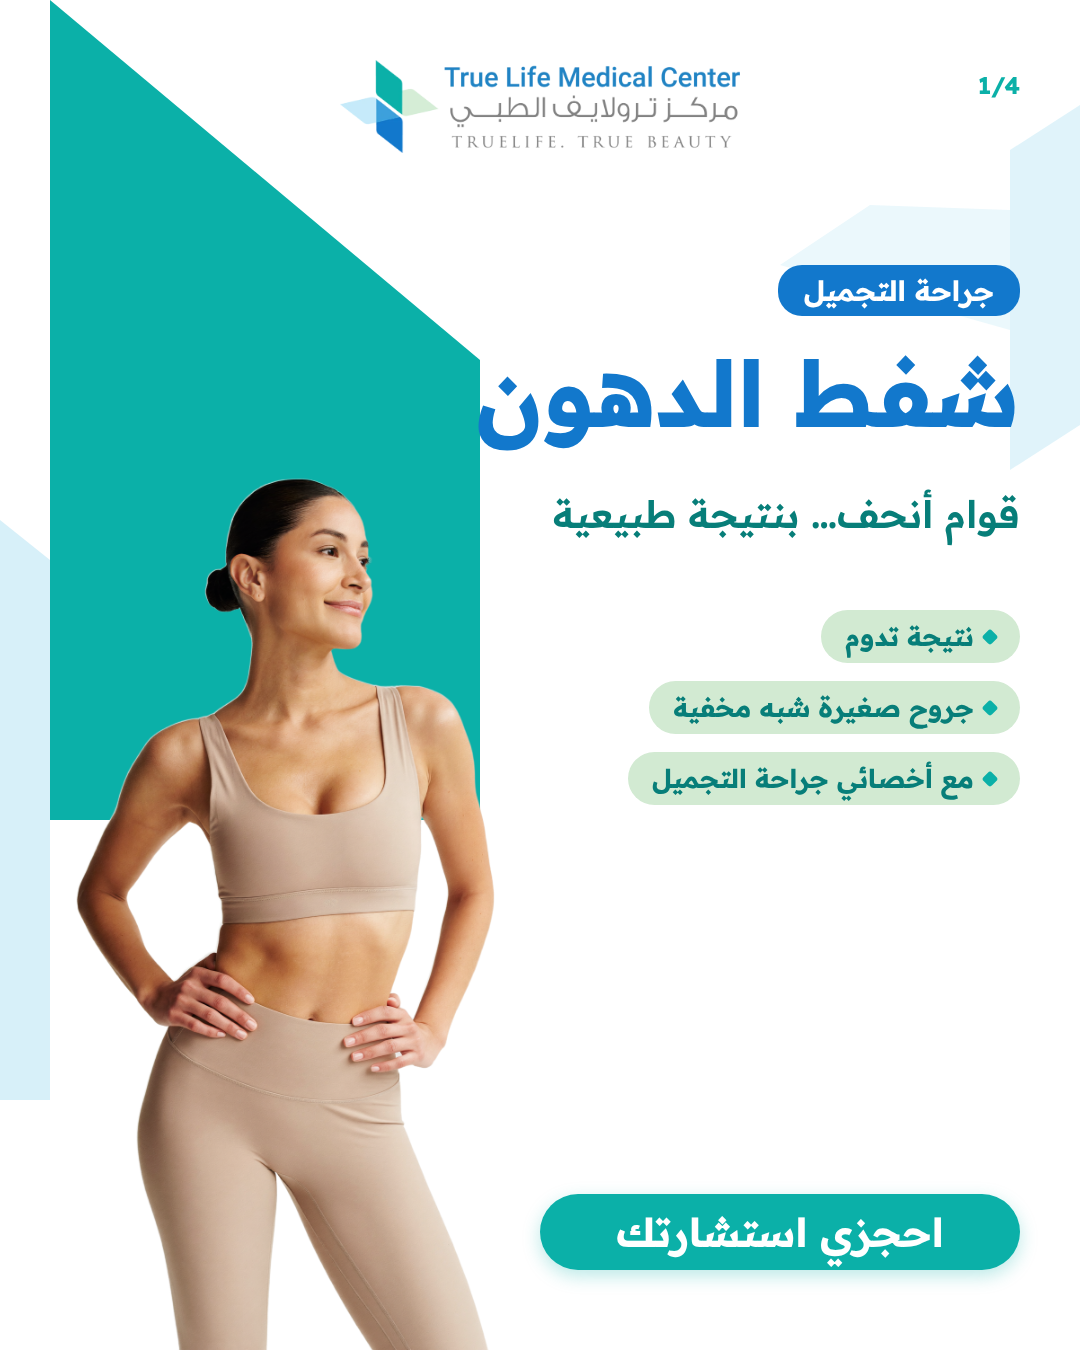
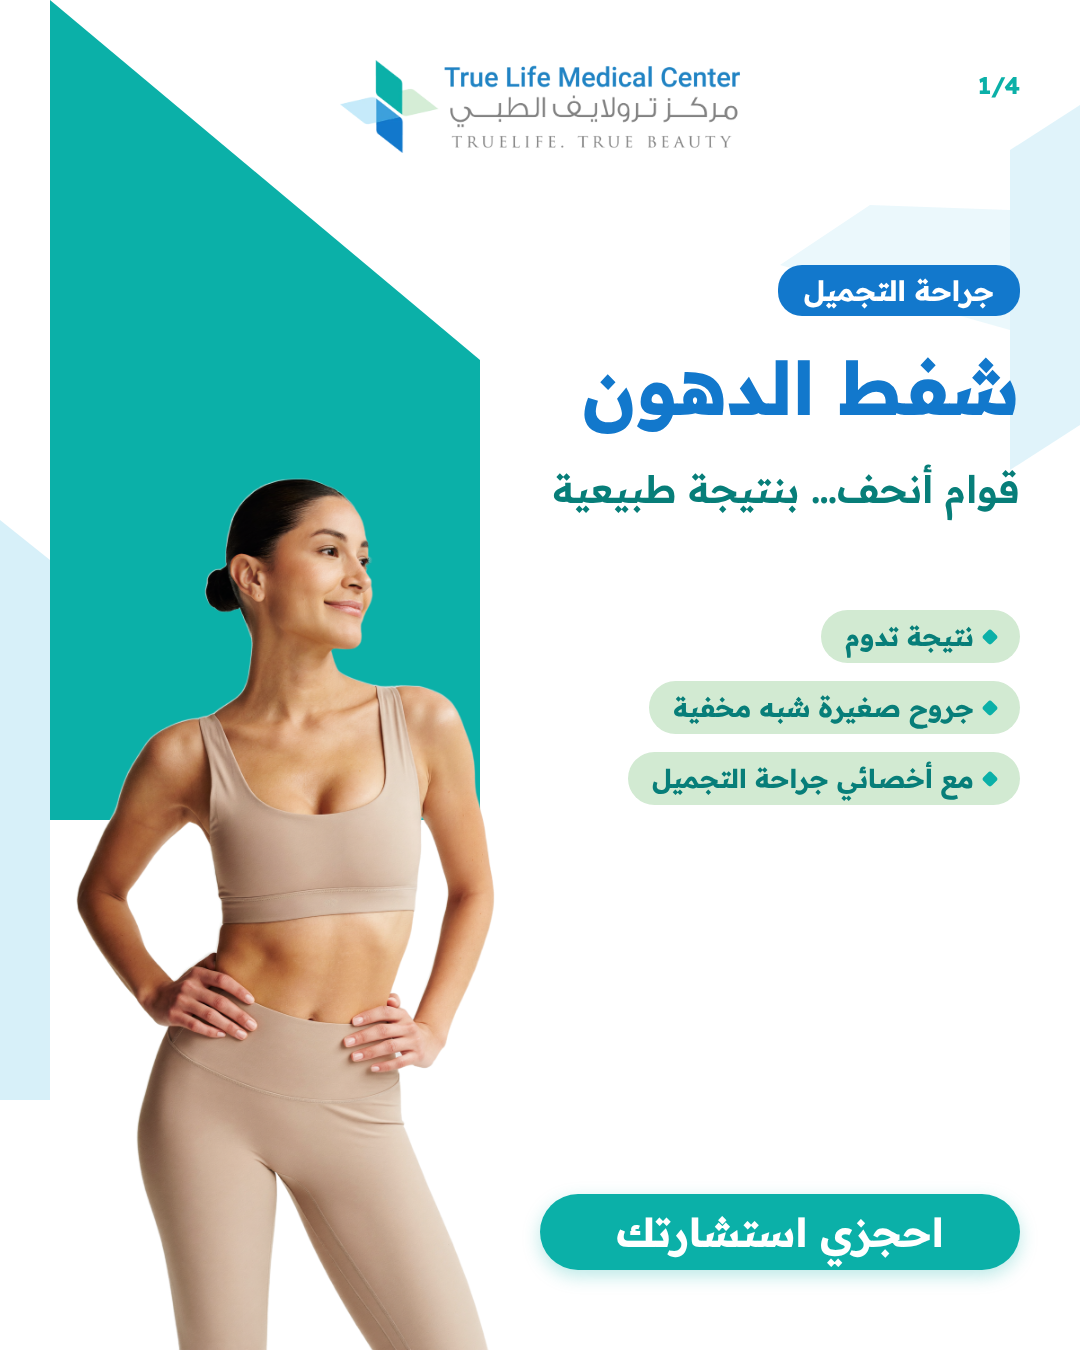
Liposuction carousel: smaller cover title, better line spacing on slides 3-4
Claude-Session: https://claude.ai/code/session_01EZd6nkjhojbY1JhgPgko2h

Changed region(s): [[0.4278, 0.2489, 0.9472, 0.4044]]

diff --git a/designs/plastic/liposuction/carousel.html b/designs/plastic/liposuction/carousel.html
@@ -25,8 +25,8 @@
   /* slide 1 */
   .s1 .model{position:absolute;left:-40px;bottom:0;width:690px}
   .s1 .tag{position:absolute;top:265px;right:60px;background:var(--blue);color:#fff;font-weight:700;font-size:28px;padding:8px 26px;border-radius:24px}
-  .s1 .ttl{position:absolute;top:340px;right:60px;font-size:92px;width:520px;text-align:right;white-space:nowrap}
-  .s1 .sub{position:absolute;top:490px;right:60px;font-size:38px;width:520px;text-align:right}
+  .s1 .ttl{position:absolute;top:345px;right:60px;font-size:74px;width:520px;text-align:right;white-space:nowrap}
+  .s1 .sub{position:absolute;top:465px;right:60px;font-size:38px;width:520px;text-align:right}
   .s1 .pills{position:absolute;top:610px;right:60px;display:flex;flex-direction:column;align-items:flex-start;gap:18px;width:500px}
   .s1 .cta{position:absolute;right:60px;bottom:80px;width:480px}
   .s1 .cta .chip{font-size:40px;direction:rtl}
@@ -47,26 +47,26 @@
 
   /* slide 3 */
   .s3 .ttl{position:absolute;top:200px;width:100%;text-align:center;font-size:84px}
-  .s3 .sub{position:absolute;top:315px;width:100%;text-align:center;font-size:32px}
-  .tips{position:absolute;top:410px;left:70px;right:70px;display:flex;flex-direction:column;gap:20px}
+  .s3 .sub{position:absolute;top:325px;width:100%;text-align:center;font-size:32px}
+  .tips{position:absolute;top:420px;left:70px;right:70px;display:flex;flex-direction:column;gap:22px}
   .tip{display:flex;align-items:center;gap:26px;background:var(--cloud);border-radius:24px;padding:22px 30px;border-right:10px solid var(--teal)}
   .tip .n{flex:none;width:64px;height:64px;border-radius:18px;background:var(--blue);color:#fff;font-size:34px;font-weight:700;display:flex;align-items:center;justify-content:center}
-  .tip p{font-size:34px;font-weight:700;color:var(--charcoal);line-height:1.35}
-  .tip p small{display:block;font-size:24px;font-weight:500;color:#5b6570}
+  .tip p{font-size:33px;font-weight:600;color:var(--charcoal);line-height:1.5}
+  .tip p small{display:block;font-size:24px;font-weight:400;color:#5b6570;line-height:1.5;margin-top:6px}
 
   /* slide 4 */
   .s4{background:var(--navy)}
   .s4 .logo{width:440px;top:90px}
-  .s4 .ttl{position:absolute;top:300px;width:100%;text-align:center;color:#fff;font-size:100px}
-  .s4 .sub{position:absolute;top:440px;width:100%;text-align:center;color:var(--ice);font-size:36px;font-weight:500}
+  .s4 .ttl{position:absolute;top:280px;width:100%;text-align:center;color:#fff;font-size:100px}
+  .s4 .sub{position:absolute;top:430px;width:100%;text-align:center;color:var(--ice);font-size:34px;font-weight:400;line-height:1.5}
   .doc{position:absolute;top:540px;left:90px;right:90px;height:470px;background:#fff;border-radius:36px;overflow:hidden}
   .doc img{position:absolute;left:10px;bottom:0;height:450px;width:auto}
   .doc .txt{position:absolute;right:40px;top:0;bottom:0;width:440px;display:flex;flex-direction:column;justify-content:center;text-align:right}
-  .doc .badge{align-self:flex-start;background:var(--mint);color:var(--deepteal);font-weight:700;font-size:24px;border-radius:20px;padding:6px 18px;margin-bottom:16px}
+  .doc .badge{align-self:flex-start;line-height:1.4;background:var(--mint);color:var(--deepteal);font-weight:700;font-size:24px;border-radius:20px;padding:6px 18px;margin-bottom:16px}
   .doc .avatar{width:170px;height:170px;border-radius:50%;margin:0 auto 22px;background:var(--ice);display:flex;align-items:center;justify-content:center;border:6px solid var(--mint)}
   .doc .avatar svg{width:90px;height:90px}
-  .doc h3{font-size:44px;line-height:1.3;font-weight:700;color:var(--blue)}
-  .doc h4{font-size:30px;font-weight:600;color:var(--deepteal);margin-top:6px}
+  .doc h3{font-size:42px;line-height:1.45;margin-bottom:10px;font-weight:700;color:var(--blue)}
+  .doc h4{font-size:28px;font-weight:500;color:var(--deepteal);line-height:1.5;margin-top:4px}
   .s4 .ctas{position:absolute;left:120px;right:120px;bottom:90px;display:flex;flex-direction:column;gap:18px}
   .s4 .chip.loc{background:transparent;border-color:rgba(198,234,246,.5);color:#fff}
 </style>
@@ -157,7 +157,7 @@
     <div class="txt"><span class="badge">جرّاحك</span>
     <h3>د. السيد حسني<br>عبد الباقي</h3>
     <h4>أخصائي جراحة التجميل والترميم</h4>
-    <h4 style="font-size:24px;color:#5b6570;font-weight:500;margin-top:14px">أكثر من 10 سنوات خبرة</h4></div>
+    <h4 style="font-size:24px;color:#5b6570;font-weight:500;margin-top:12px;line-height:1.5">أكثر من 10 سنوات خبرة</h4></div>
   </div>
   <div class="ctas">
     <div class="chip wa"><svg viewBox="0 0 32 32"><path fill="#fff" d="M16 3C8.8 3 3 8.7 3 15.8c0 2.5.7 4.9 2 6.9L3 29l6.5-2c1.9 1 4.1 1.6 6.5 1.6 7.2 0 13-5.7 13-12.8S23.2 3 16 3zm0 23.3c-2.1 0-4.1-.6-5.8-1.7l-.4-.2-3.9 1.2 1.2-3.7-.3-.4a10.4 10.4 0 0 1-1.7-5.7C5.1 10 10 5.3 16 5.3S26.9 10 26.9 15.8 22 26.3 16 26.3zm6-7.8c-.3-.2-1.9-.9-2.2-1-.3-.1-.5-.2-.7.2l-1 1.2c-.2.2-.4.2-.7.1a8.8 8.8 0 0 1-4.4-3.8c-.3-.6.3-.5.9-1.7.1-.2 0-.4 0-.6l-1-2.4c-.3-.6-.5-.5-.7-.5h-.6c-.2 0-.6.1-.9.4-.3.3-1.2 1.1-1.2 2.7s1.2 3.2 1.4 3.4c.2.2 2.4 3.6 5.8 5 2.2.9 3 1 4.1.8.7-.1 1.9-.8 2.2-1.5.3-.7.3-1.4.2-1.5-.1-.2-.3-.3-.6-.4z"/></svg>+971 7 204 4666</div>
